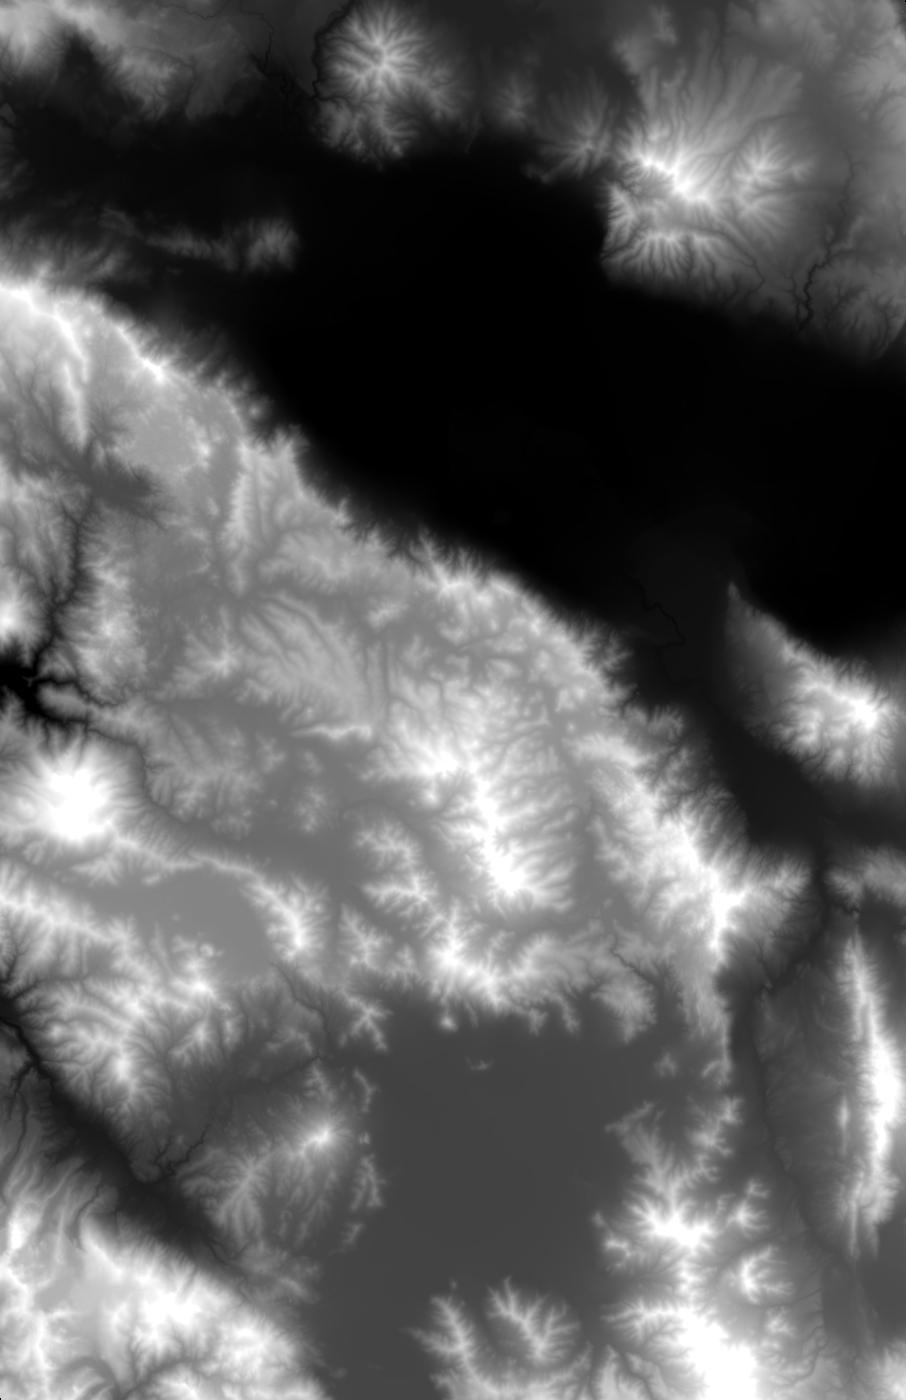
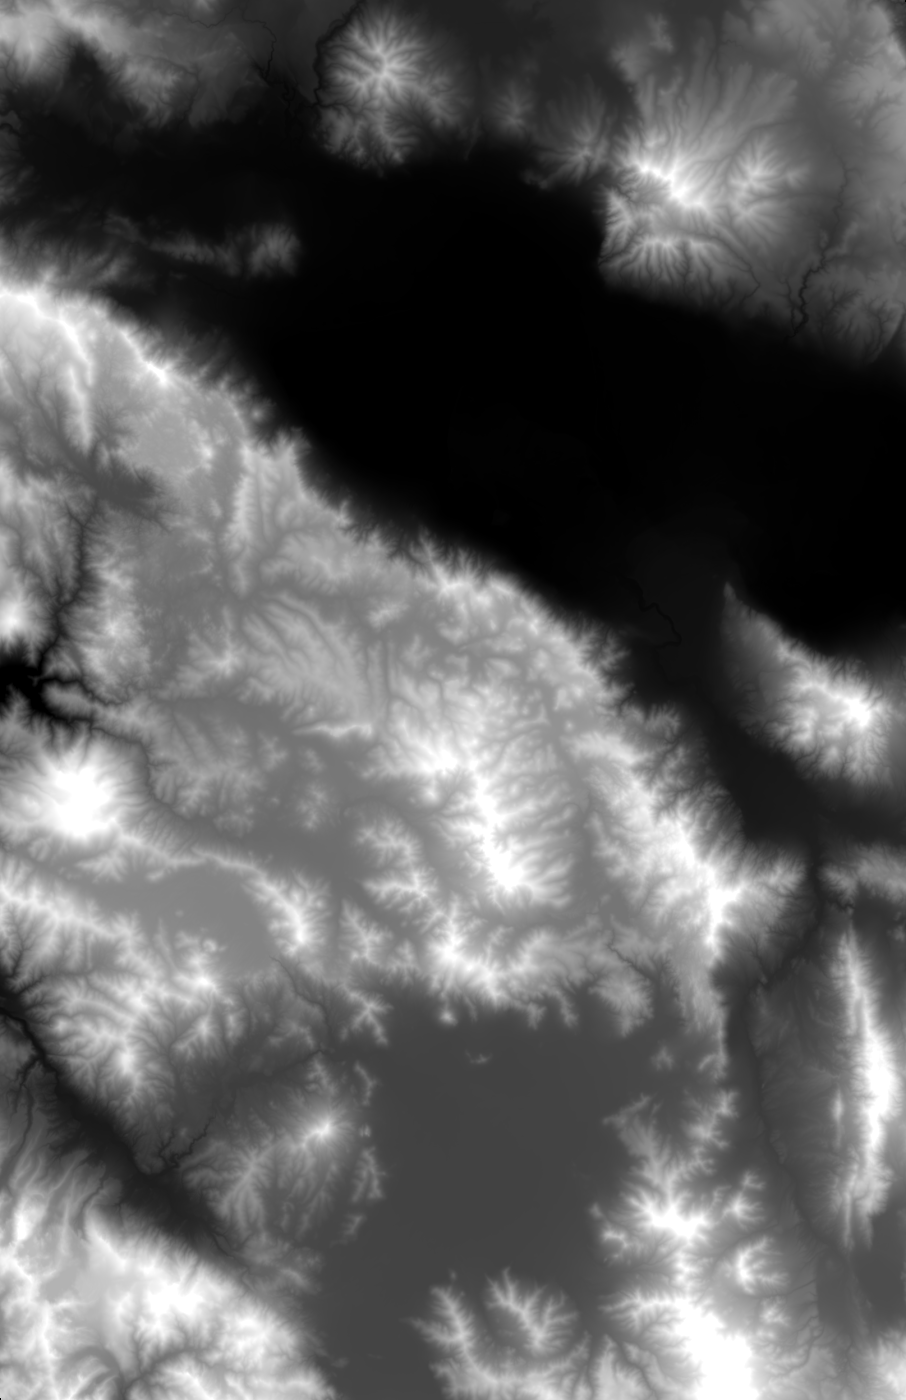
P0-c: real 3DEP DEMs + NHD hydro for both regions; bounds now DEM-derived
Rebuilt both regions on real terrain via region_prep.py (lassen_ca: 183 MB DEM,
116 lakes / 307 rivers; susanville_reno: 257 MB DEM, 140 lakes / 719 rivers --
susanville previously had no DEM and 500'd on every render). Committed the
regenerated region.json / overview.png / hydro.json; the DEM files stay
gitignored (distribution channel is P1; CI keeps the synthetic-DEM harness).

Closes the deferred half of V1-1: region.json bounds/size now derive from the
DEM's own transform (single source of truth). The old lassen bounds overhung
real data by ~1-2 km per edge -- the fabricated-terrain root cause; /readyz now
reports 0.0 m drift for both regions.

Validation on real terrain:
- The real-elevation control-point registration test runs (no longer skipped)
  and passes: lon/lat -> UTM 10N -> DEM sampling hits downtown Susanville at
  its true ~1265 m.
- Full suite: 112 passed / 2 skipped.
- Look-validation renders (lassen wizard proof with fixture tracks; susanville
  relief) produced and sent to Dom for the Open-Q4 by-eye sign-off.
- Flagship 18x24 @ 300 dpi final stress-checked on the real COG: 5400x7200 px,
  68.5 s, ~4.8 GB peak RSS -- recorded in the handoff's unit-economics gate
  (substantially heavier than the earlier 9x12-based estimate).

Also: .gitignore the isolated .venv-prep/ used for the region-prep stack.

Claude-Session: https://claude.ai/code/session_01LVtWCAaALRJD8ruH5UPQtH

diff --git a/docs/superpowers/handoffs/2026-07-01-prioritized-next-steps.md b/docs/superpowers/handoffs/2026-07-01-prioritized-next-steps.md
@@ -18,11 +18,11 @@ The guided **TrailPrint Studio wizard** shipped and merged (PR #2): 4-step flow 
 
 The goal: the local tool produces **client-quality posters back-to-back with no silent errors.** Sequence matters — CI lands first so the correctness surgery is guarded.
 
-> **Progress (rolling):** PR #4 landed P0-a, P0-b, the `/readyz` half of P0-c, and most of P0-e. A follow-up PR then landed **P0-d** and the **V1-8 + V1-11 halves of P0-f** (lifecycle + logging). Suite is now **111 passed / 3 skipped**. What's **still open**: real 3DEP DEMs + look re-validation (P0-c — network available, not yet run), `V1-12` source-archival, and the **V1-10 finished-poster/print-correctness** half of P0-f. The quality-bar agreement with Dom below is also still open.
+> **Progress (rolling):** PR #4 landed P0-a, P0-b, the `/readyz` half of P0-c, and most of P0-e. PR #5 landed **P0-d** and the **V1-8 + V1-11 halves of P0-f** (lifecycle + logging). A third PR completed **P0-c**: real 3DEP DEMs + real NHD hydro rebuilt for **both** regions (lassen 183 MB, susanville 257 MB — susanville previously 500'd on every render); `region.json` now derives from the DEM's own transform (`/readyz` reports **0.0 m** bounds drift — the old lassen bounds overhung real data by ~1–2 km/edge); the real-elevation control-point registration test runs and passes; full suite **112 passed / 2 skipped** against real terrain; look-validation renders sent to Dom. What's **still open**: Dom's look sign-off + the golden-reference quality bar, `V1-12` source-archival (needs an owned object store; DEMs also remain gitignored/undistributed — the distribution channel is P1), and the **V1-10 finished-poster/print-correctness** half of P0-f.
 
 - [x] **P0-a · Stand up CI + a committed synthetic test region + pin deps.** *Done:* GitHub Actions (`.github/workflows/ci.yml`) runs `pytest -q` on push/PR; `tests/conftest.py` hydrates a tiny synthetic DEM per region (build-if-missing, bounds == region.json, tagged `synthetic=1`) so the endpoint/render/**registration** suites run instead of skipping; `test_hydro`/`test_region_prep` `importorskip` the geopandas/py3dep stack; `requirements-lock.txt` (exact-version pins) + `requirements-{dev,regionprep}.txt` split + `.python-version`. *Note: pins are exact-version (pip freeze), not yet `--generate-hashes`/`uv lock` — a hashed lock is the remaining nicety. Roadmap: V1-4, V1-9.*
 - [x] **P0-b · Fix the fabricated-terrain bug (the #1 v1 correctness defect).** *Done:* `render.rasterize` raises a humanized `OffDemError` (→ 422) when the trimmed crop's NaN fraction exceeds `MAX_OFFDEM_NAN_FRAC` (1%); `relief._fill_nan` now fills stray holes from the **nearest finite neighbour** (scipy `distance_transform_edt`), not the crop mean. *Deferred to P0-c/readyz: deriving region.json bounds FROM the DEM at build time — the drift is now surfaced by `/readyz` rather than auto-corrected. Roadmap: V1-1.*
-- [~] **P0-c · Real DEMs for both regions + a `/readyz` bounds/DEM-present check.** *Done:* `/readyz` endpoint + `Region.readiness()` — every region must have a present DEM whose bounds + CRS match its `region.json` (503 with a per-region report otherwise); this catches both susanville's missing DEM and the bounds-overhang drift. *Still open:* build/restore **real** 3DEP DEMs for both regions (needs network) and re-verify the by-eye look on real terrain. *Roadmap: V1-2.*
+- [x] **P0-c · Real DEMs for both regions + a `/readyz` bounds/DEM-present check.** *Done:* `/readyz` endpoint + `Region.readiness()` (present DEM, bounds + CRS match, 503 with per-region report otherwise). Real 3DEP DEMs + NHD hydro rebuilt for **both** regions via `region_prep.py`; regenerated `region.json`/`overview.png`/`hydro.json` committed, so bounds now derive from the DEM's transform (drift = 0.0 m). The registration control-point test runs against the real DEM and passes; 18×24 @ 300 dpi final stress-checked on the real COG. *Note:* the DEM files themselves stay gitignored/undistributed — rebuild with `region_prep.py` (~4 min/region) or wait for the P1 distribution channel; CI still uses the synthetic-DEM harness. *Look sign-off from Dom pending (renders sent). Roadmap: V1-2.*
 - [~] **P0-d · Real-export spike.** *Done:* `tests/test_real_exports.py` — a corpus of **representative** OnX/Gaia/Strava/Avenza/Google exports encoding the real quirks (multi-track/segment, `<wpt>`/`<Point>` waypoints mixed with tracks, Strava trackpoint extensions, KML-in-folders, KMZ, `gx:Track` with paused/repeated fixes, 4k-point tracks, mixed dated/undated), validated end-to-end ingest → hotspots → framing (starter_crop clears the zoom cap). No density/hotspot/framing regression surfaced. *Still open:* swap in **actual** exported files (gold standard) under `tests/fixtures/exports/` when on hand. *Roadmap: V1-5, Open-Q4.*
 - [~] **P0-e · Batch the cheap fixes.** *Done:* `MemoryStore` `create`/`get`/`update` now `deepcopy` (value semantics matching SqliteStore — V1-3); `gx:Track` paired `(lon,lat,when)` parse dropping a bad coord as a unit (V1-7); upload-hardening (V1-6) — hardened lxml parser (`resolve_entities=False`, `huge_tree=False`, DOCTYPE rejected), KMZ entry/decompressed-size caps, output-pixel + non-positive-size guards in `spec.validate()`, `Image.MAX_IMAGE_PIXELS` + photo byte/pixel caps. *Still open:* `V1-12` archive the shipped regions' raw source DEM/water to your own store (continuity).*
 - [~] **P0-f · Hygiene + finish.** *Done (V1-8 lifecycle):* the sync final now routes through the blob seam (no more `final_*.png` in `region.dir`); TTL/eviction for blobs, the job registry, and `uploads/` photo dirs (`TRAILPRINT_TTL_SECONDS`, default 24h; `LocalBlobs.delete`/`sweep`). *Done (V1-11 observability):* `app/logconfig.py` (text default, JSON opt-in) — `traceback.print_exc()` replaced by `logger.exception`; job-lifecycle + upload/proof/final render logs with timings. *Still open (V1-10):* a real title/legend/margin + print-correct output (embedded DPI is in; add sRGB/gamut, bleed/trim, a finished title block — decide the look with Dom). *Roadmap: V1-8, V1-11, V1-10.*
@@ -51,7 +51,7 @@ Data-privacy lifecycle (delete/export/retention — pull earlier for EU/CA), ToS
 ## Decisions that gate the v2 build (resolve before P2 planning)
 1. **Digital-only or physical prints?** Forks the entire fulfillment rock.
 2. **On-demand any-location vs a curated expanding catalog?** The catalog is likely right — on-demand means a ~4-min/190 MB build the user waits through, at per-build cost.
-3. **Unit-economics gate** (belongs ahead of P2, not P3): profile peak per-render RAM (~18 s, hundreds of MB, re-reads a ~190 MB COG uncached) and tie a per-render cost to a price floor.
+3. **Unit-economics gate** (belongs ahead of P2, not P3): tie a per-render cost to a price floor. **Measured (2026-07-02, real lassen COG):** the flagship 18×24 @ 300 dpi final is **68.5 s and ~4.8 GB peak RSS** (5400×7200 px; single-threaded; COG re-read uncached) — much heavier than the earlier ~18 s/hundreds-of-MB estimate that was taken at 9×12. Per-worker RAM sizing and DEM caching are non-optional before any fleet math.
 4. **Which global DEM/water sources — and are their licenses OK for commercial sale?** Determines required on-poster attribution.
 
 ---